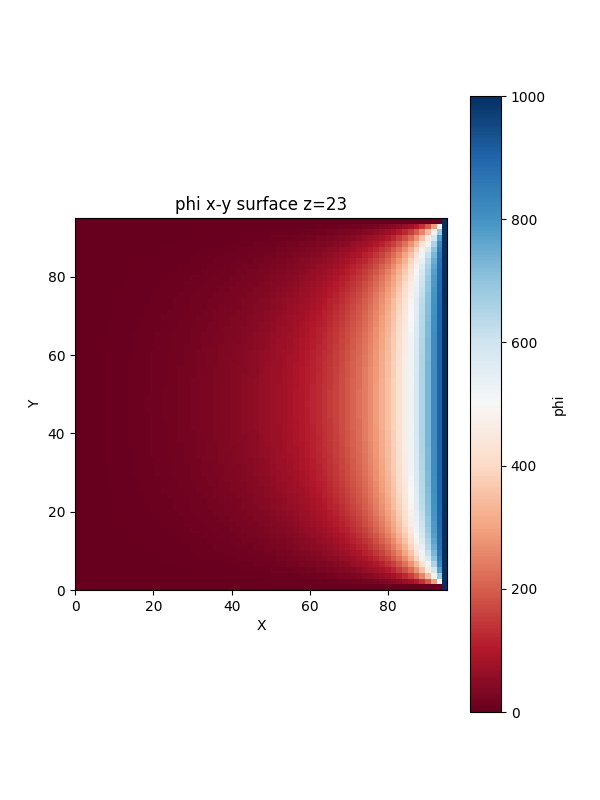
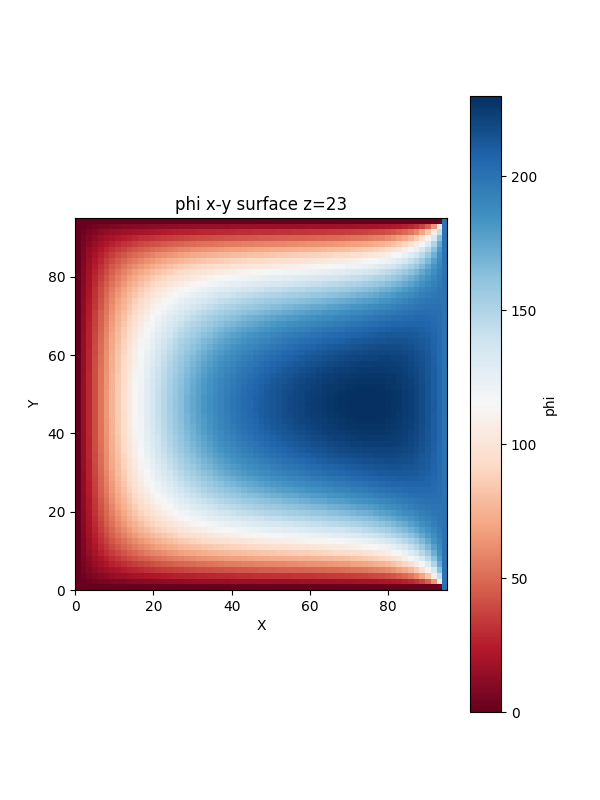
iPM3D

diff --git a/pic/main.cpp b/pic/main.cpp
@@ -53,10 +53,10 @@ int main(int argc, char** argv) {
     Mx = 65;
     My = 65;
     Mz = 65; //包含边界
-    dx[0]=1e-2; //1mm
-    dx[1]=1e-2;
-    dx[2]=1e-2;
-    dt=1e-13;
+    dx[0]=3.125e-4; //1mm
+    dx[1]=3.125e-4;
+    dx[2]=3.125e-4;
+    dt=1e-10;
     int num =2;
     char**name;
     name=new char*[2];
@@ -64,7 +64,7 @@ int main(int argc, char** argv) {
     name[1]=new char[16];
     strcpy(name[0],"electron");
     strcpy(name[1],"Ar+");
-    int ncreate=1200000; //每个进程初始电子数
+    int ncreate=1638400; //每个进程初始电子数
 
  
   Domain* domain=new Domain(xyz_np,Mx,My,Mz,dx,rank);
@@ -76,13 +76,13 @@ int main(int argc, char** argv) {
     // particle->grow(50);
     // particle->add_particle(id,ispecies,icell,x,v,erot,evib);
      createparticles->create_local(particle,domain->lo,domain->hi,ncreate);
-int step=5;//循环5个周期。
-int peroid=1/13.56e6*dt;
+int step=1;//循环5个周期。
+int peroid=1/dt/13.56e6;
 
      for(int i=0;i<step;i++)
-     { for(int j=0;j<peroid;j++)
+     { for(int j=0;j<40;j++)
       {clock_t start = clock();
-      fieldsolver->fieldsolve();
+      fieldsolver->fieldsolve(j*dt);
      
         clock_t end1   = clock();
         // cout<<"fieldsolve time cost "<<(double)(end1-start) / CLOCKS_PER_SEC<<endl;
@@ -91,7 +91,7 @@ int peroid=1/13.56e6*dt;
        if(rank==6){
  cout<<"fieldsolve time cost "<<(double)(end1-start) / CLOCKS_PER_SEC<<endl;
  cout<<"particlemove time cost"<<(double)(end2-end1) / CLOCKS_PER_SEC<<endl;
- cout<<i<<"step"<<endl;
+ cout<<j<<"step"<<endl;
  cout<<"particles"<<particle->nlocal<<endl;
        }}
        

diff --git a/pic/particle.cpp b/pic/particle.cpp
@@ -515,7 +515,7 @@ std::random_device rd;
 std::mt19937 e(rd());
 std::uniform_real_distribution<double> randu(0, 1);
 for(int i=0;i<2;i++)
-{EFactor[i]=species[i].charge/species[i].mass*dt/(dx/dt);}
+{EFactor[i]=species[i].charge/species[i].mass*dt/(dx/dt)/dx;}
 for(int i = 0; i < 6; i++) {  
     indexmax[i]=10000;
     plist[i]=(int*)malloc(indexmax[i]*sizeof(int));
@@ -575,8 +575,8 @@ speciesid=particles[i].ispecies;
 particles[i].x[0]+=particles[i].v[0];
 particles[i].x[1]+=particles[i].v[1];
 particles[i].x[2]+=particles[i].v[2];
-// if(particles[i].v[2]>50000)
-//   printf("%f  %f %f\n",particles[i].x[0],particles[i].v[0],Ez*1e6);
+//  if(i<6)
+//    printf("%f  %f %f\n",particles[i].x[0],particles[i].v[0],Ez*1e6);
 index=particle_domain_index(&particles[i]);
 //particle comm
 //  index=particle_domain_index(&particles[i]);
@@ -828,7 +828,7 @@ ispecies[0]=particles[i].ispecies;
 ispecies[1]=-1;
 ispecies[2]=-1;
 
-if(randu(e)>species[ispecies[0]].coll_ratio);
+if(randu(e)<species[ispecies[0]].coll_ratio);
 {continue;
   //printf("%f,x3",particles[i].x[2]);
 // continue;

diff --git a/pic/fieldsolver.cpp b/pic/fieldsolver.cpp
@@ -24,6 +24,7 @@
 #include"fieldsolver.h"
 #include "math_const.h"
 #include <vector>
+#include <cmath>
 // #include"material.h"
 using namespace std;
 using namespace MathConst;
@@ -234,7 +235,7 @@ int FieldSolver::initpetsc( PetscInt Mx,  PetscInt My, PetscInt Mz, int* xyz_np,
 
   
  }
- int FieldSolver::fieldsolve(){
+ int FieldSolver::fieldsolve(double wt){
    double*charge;
     float *rho ,*phi,*rho1;
     rho=new float[width_x*width_y*width_z];
@@ -249,7 +250,7 @@ int FieldSolver::initpetsc( PetscInt Mx,  PetscInt My, PetscInt Mz, int* xyz_np,
                 }
                 else if (Mz - 1 == k)
                 {
-                    barray[k][j][i] = 1000;
+                    barray[k][j][i] = 200*cos(13.56e6*wt);
                 }
                 else if (0 == i || Mx - 1 == i || 0 == j || My - 1 == j)
                 {

diff --git a/pic/create_particles.cpp b/pic/create_particles.cpp
@@ -93,7 +93,7 @@ std::uniform_real_distribution<double> randu(0, 1);
 
   double tempscale = 1.0;
   double sqrttempscale = 1.0;
-  ispecies=0;
+  
 
   double volsum = 0.0;
   bigint nprev = 0;
@@ -167,7 +167,9 @@ std::uniform_real_distribution<double> randu(0, 1);
 
       // erot = particle->erot(ispecies,temp_rot*tempscale,random);
       // evib = particle->evib(ispecies,temp_vib*tempscale,random);
-
+      ispecies=0;
+      if(m<800000)
+         ispecies=1;
        id++;
     InitParticleOne(v,&ispecies);//调用Fortran函数初始化粒子速度
     //  if(id<100)

diff --git a/plotphi.py b/plotphi.py
@@ -71,12 +71,12 @@ yy=np.arange(0,5)
 X1,Y1=np.meshgrid(xx,yy)
 # fig = plt.figure()  #定义新的三维坐标轴
 fig,ax = plt.subplots(figsize=(6,8))
-h=f[:,57,:]
+h=f[21,:,:]
 # print(h)
 sm = plt.cm.ScalarMappable(cmap='hot', norm=plt.Normalize(vmin=0, vmax=1))  
 sm.set_array([])
-
-plt.imshow(h, cmap='RdBu', norm=plt.Normalize(vmin=0, vmax=1000),extent=[0, 95, 0, 95])  
+plt.imshow(h, cmap='RdBu', extent=[0, 95, 0, 95])  
+# plt.imshow(h, cmap='RdBu', norm=plt.Normalize(vmin=0, vmax=1000),extent=[0, 95, 0, 95])  
 plt.colorbar(label="phi")  
 
 plt.xlabel('X')  

diff --git a/pic/fieldsolver.h b/pic/fieldsolver.h
@@ -17,7 +17,7 @@ class FieldSolver{
     double dx[3];
     
     int initpetsc(PetscInt Mx,  PetscInt My, PetscInt Mz,int* xyz_np,double dx[3],double *lo,double*hi);
-     int fieldsolve(); 
+     int fieldsolve(double wt); 
     // int petscfinalsize();
 
 
